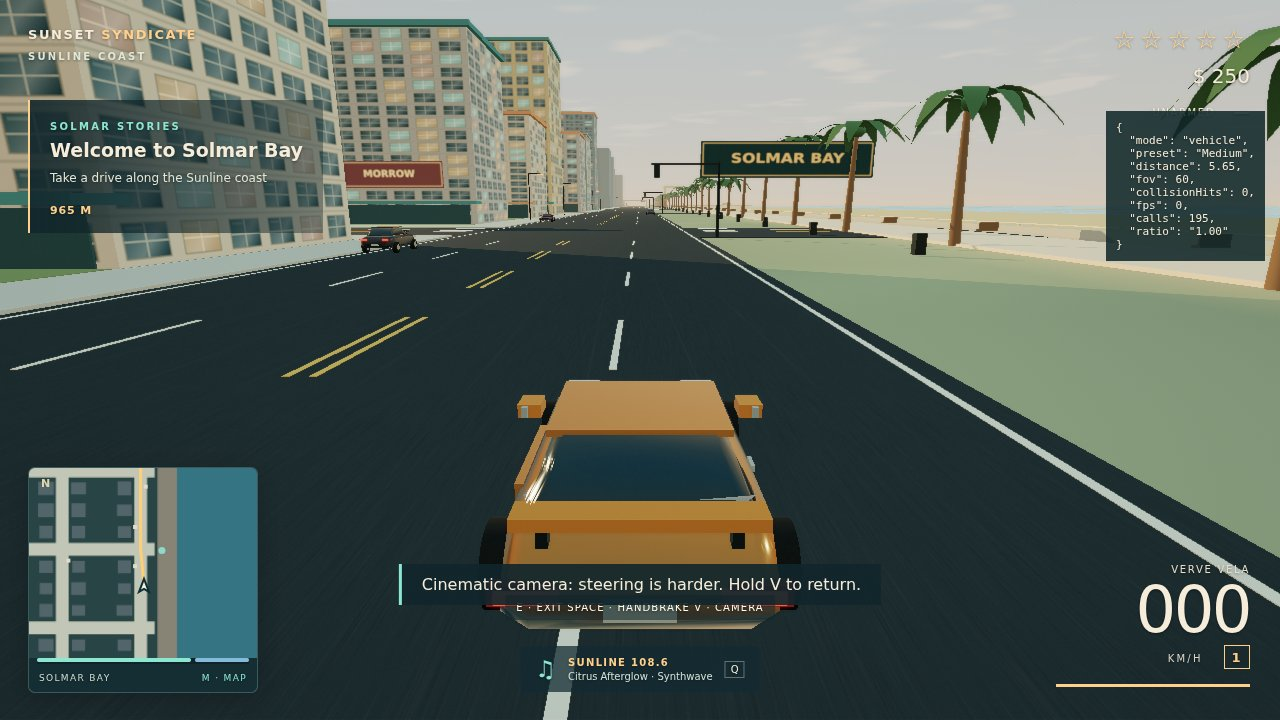
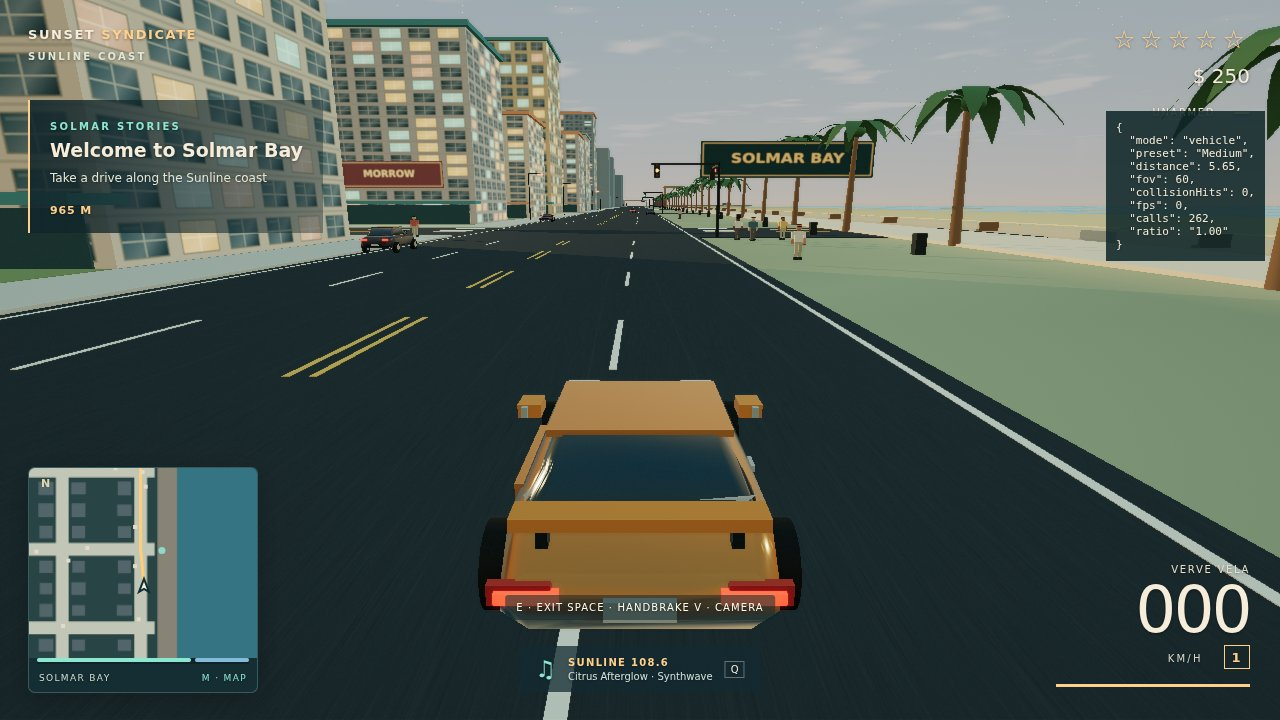
M4: animate seeded traffic, working signals and instanced sidewalk crowds

diff --git a/game/src/entities/pedestrians.js b/game/src/entities/pedestrians.js
@@ -1,0 +1,80 @@
+import { Random } from '../core/rng.js';
+import { damping, dampAngle, distance2D, heading } from '../core/math.js';
+import { createSidewalkGraph } from '../world/sidewalks.js';
+import { CrowdRenderer } from './crowd-renderer.js';
+import { walkSurfaceHeight } from '../world/terrain.js';
+
+export class Pedestrians {
+  constructor(game, signals) {
+    this.game = game; this.signals = signals; this.graph = createSidewalkGraph(); this.rng = new Random(game.world.seed + ':pedestrians'); this.people = [];
+    this.renderer = new CrowdRenderer(game.scene, game.world.materials); this.nextId = 1;
+    const nodes = [...this.graph.nodes.values()];
+    for (let i = 0; i < 56; i++) {
+      const node = i < 18 ? this.graph.nodes.get(`8:${i % 10}:${i % 2 ? 1 : 2}`) : this.rng.pick(nodes);
+      this.spawn(node.x, node.z, 'civilian', node);
+    }
+    for (const [x, z] of [[335, 343], [342, 354], [335, 324], [306.1, 339], [306.1, 362], [354, 308]]) {
+      const person = this.spawn(x, z); person.target = person.node; person.wait = this.rng.range(0.1, 0.6);
+    }
+    game.events.on('gunshot', point => this.frighten(point, 100)); game.events.on('explosion', point => this.frighten(point, 150));
+    game.events.on('carjack', ({ vehicle }) => {
+      this.frighten(vehicle, 35);
+      const ejected = this.spawn(vehicle.x - Math.cos(vehicle.yaw) * 1.7, vehicle.z + Math.sin(vehicle.yaw) * 1.7);
+      if (ejected) { ejected.fear = 7; ejected.threat = vehicle; }
+    });
+  }
+  spawn(x, z, faction = 'civilian', node = null) {
+    if (this.people.length >= this.renderer.capacity) {
+      const available = this.people.find(person => !person.active); if (!available) return null; this.people.splice(this.people.indexOf(available), 1);
+    }
+    const current = node || this.graph.nearest({ x, z });
+    const person = { id: this.nextId++, x, z, y: walkSurfaceHeight(x, z), yaw: this.rng.range(0, 6.28), previous: { x, z },
+      vx: 0, vz: 0, speed: 0, health: faction === 'civilian' ? 60 : 100, armor: faction === 'swat' ? 40 : 0,
+      active: true, faction, armed: faction !== 'civilian', state: 'wander', node: current, target: null, wait: this.rng.range(0, 2), fear: 0,
+      shirt: faction === 'civilian' ? this.rng.pick(['#b6d3ce', '#e4c37b', '#c46e61', '#dee4d2', '#547985', '#c6b3cc']) : '#294955',
+      pants: this.rng.pick(['#3c535d', '#686763', '#b3b496']), skin: this.rng.pick(['#c58e6a', '#855d43', '#d1ac85', '#ad7255']), shotTimer: 0, deadTime: 0 };
+    this.people.push(person); return person;
+  }
+  frighten(point, radius) {
+    for (const npc of this.people) if (npc.health > 0 && npc.faction === 'civilian' && distance2D(npc, point) < radius) {
+      npc.fear = 8; npc.threat = { x: point.x, z: point.z }; npc.state = 'flee';
+      if (this.rng.next() < 0.10) this.game.events.emit('witness-call', { npc, point });
+    }
+  }
+  update(dt) {
+    const g = this.game;
+    for (const npc of this.people) {
+      npc.previous = { x: npc.x, y: npc.y, z: npc.z, yaw: npc.yaw }; if (!npc.active) continue;
+      if (npc.health <= 0) { npc.deadTime += dt; npc.y += (0.12 - npc.y) * damping(8, dt); if (npc.deadTime > 25) npc.active = false; continue; }
+      npc.fear = Math.max(0, npc.fear - dt); npc.wait -= dt;
+      let dx = 0, dz = 0, pace = 1.45;
+      const dangerous = g.fleet.vehicles.find(car => car.active && Math.abs(car.speed) > 5 && distance2D(car, npc) < 7);
+      if (dangerous && npc.faction === 'civilian') { npc.fear = 2; npc.threat = dangerous; }
+      if (npc.fear > 0 && npc.threat) { dx = npc.x - npc.threat.x; dz = npc.z - npc.threat.z; pace = 4.5; npc.state = 'flee'; }
+      else if (npc.faction !== 'civilian' && g.wanted?.stars) { dx = g.player.x - npc.x; dz = g.player.z - npc.z; pace = distance2D(npc, g.player) < 18 ? 0 : 3.8; npc.state = 'chase'; }
+      else if (npc.wait <= 0) {
+        if (!npc.target) { const edge = this.rng.pick(npc.node.edges); npc.target = this.graph.nodes.get(edge.to); }
+        dx = npc.target.x - npc.x; dz = npc.target.z - npc.z;
+        if (Math.hypot(dx, dz) < 0.6) { npc.node = npc.target; npc.target = null; npc.wait = this.rng.range(0.1, 1.2); }
+        else {
+          const a = npc.node.id.split(':'), b = npc.target.id.split(':'), crossing = a[0] === b[0] && a[1] === b[1] && a[2] !== b[2];
+          if (crossing) {
+            const intersection = g.graph.nodes.get(`${a[0]}:${a[1]}`), state = this.signals.state(intersection);
+            const crossingAxis = Math.abs(dx) > Math.abs(dz) ? 'ns' : 'ew';
+            if (state[crossingAxis] !== 'red') pace = 0;
+          }
+        }
+        npc.state = 'wander';
+      }
+      const length = Math.hypot(dx, dz); if (length > 0.01) { dx = dx / length * pace; dz = dz / length * pace; }
+      npc.vx += (dx - npc.vx) * damping(8, dt); npc.vz += (dz - npc.vz) * damping(8, dt);
+      const move = g.world.collision.move(npc, npc.vx * dt, npc.vz * dt, 0.28); npc.speed = Math.hypot(move.dx, move.dz) / dt;
+      if (length > 0.01) npc.yaw = dampAngle(npc.yaw, heading(dx, dz), 8, dt);
+      npc.y = walkSurfaceHeight(npc.x, npc.z);
+      if (dangerous && distance2D(dangerous, npc) < 1.25 && Math.abs(dangerous.speed) > 8) {
+        npc.health = 0; if (dangerous === g.player.vehicle) g.events.emit('crime', { severity: 25, x: npc.x, z: npc.z });
+      }
+    }
+  }
+  render(alpha, time = this.game.time) { this.renderer.render(this.people, this.game.player, time, alpha); }
+}

diff --git a/game/src/main.js b/game/src/main.js
@@ -17,6 +17,9 @@ import { Radio } from './systems/radio.js';
 import { HUD } from './ui/hud.js';
 import { Menus } from './ui/menus.js';
 import { readSave, writeSave } from './core/save.js';
+import { TrafficSignals } from './world/signals.js';
+import { Traffic } from './systems/traffic.js';
+import { Pedestrians } from './entities/pedestrians.js';
 
 const params = new URLSearchParams(location.search), canvas = document.querySelector('#viewport');
 const fatal = document.querySelector('#fatal'), startedAt = performance.now();
@@ -55,14 +58,15 @@ function boot(context) {
     time += dt; input.poll(Boolean(player.vehicle)); rig.handle(input, player, dt);
     if (game.menus) game.menus.settings.camera = rig.preset;
     player.update(dt, input, rig.yaw);
-    fleet.update(dt, input); world.update(dt, time, player); director.update(dt); notifyTimer -= dt;
+    game.traffic.update(dt); fleet.update(dt, input); game.pedestrians.update(dt); world.update(dt, time, player); director.update(dt); notifyTimer -= dt;
     routeTimer -= dt; if (routeTimer <= 0 && game.waypoint) { game.setWaypoint(game.waypoint); routeTimer = 1; }
     audio.update(dt, game); radio.update(game); saveTimer -= dt;
     if (saveTimer <= 0 && game.hasStarted) { game.save(); saveTimer = 12; }
     input.endStep();
   }, (alpha, dt, elapsed) => {
     if (game.menus.isOpen) director.update(dt);
-    fleet.render(alpha, time); player.render(alpha, time); rig.update(dt, player, input, time); world.render(time, camera);
+    const renderTime = Math.max(0, time - loop.step + alpha * loop.step);
+    fleet.render(alpha, renderTime); game.pedestrians.render(alpha, renderTime); game.signals.render(); player.render(alpha, renderTime); rig.update(dt, player, input, renderTime); world.render(renderTime, camera);
     renderer.info.reset(); postfx.render(scene, camera, time, player.speed, world.lighting.night, rig.reduceMotion);
     stats.drawCalls = renderer.info.render.calls; stats.triangles = renderer.info.render.triangles;
     frames++; sampleTime += elapsed; if (sampleTime >= 1) { stats.fps = frames / sampleTime; frames = sampleTime = 0; }
@@ -74,7 +78,7 @@ function boot(context) {
   window.addEventListener('resize', resize); resize();
   canvas.addEventListener('webglcontextlost', event => { event.preventDefault(); loop.paused = true; fatal.hidden = false; fatal.textContent = 'Graphics context lost. Waiting for restoration…'; });
   canvas.addEventListener('webglcontextrestored', () => { fatal.hidden = true; loop.paused = false; resize(); });
-  const game = window.__game = { ready: false, version: 'M3', params, scene, renderer, camera, world, player, input, rig, quality, postfx, events, stats, loop, fleet, environment,
+  const game = window.__game = { ready: false, version: 'M4', params, scene, renderer, camera, world, player, input, rig, quality, postfx, events, stats, loop, fleet, environment,
     graph, director, audio, radio, hasStarted: false, waypoint: null, route: [],
     notify, get time() { return time; },
     setWaypoint(point) { this.waypoint = point; this.route = graph.path(player, point).concat(point); },
@@ -101,12 +105,13 @@ function boot(context) {
       input.injected = null; this.hud.render(); return { clipped, state: this.state() };
     },
     renderFrame() {
-      fleet.render(1, time); player.render(1, time); rig.update(1 / 60, player, input, time); world.render(time, camera);
+      fleet.render(1, time); this.pedestrians.render(1); this.signals.render(); player.render(1, time); rig.update(1 / 60, player, input, time); world.render(time, camera);
       renderer.info.reset(); postfx.render(scene, camera, time, player.speed, world.lighting.night, rig.reduceMotion);
       stats.drawCalls = renderer.info.render.calls; stats.triangles = renderer.info.render.triangles;
       this.hud.render(); if (notifyTimer < 0) document.querySelector('#notification').classList.remove('visible');
     },
   };
+  game.signals = new TrafficSignals(scene, graph, world.materials); game.traffic = new Traffic(game, game.signals); game.pedestrians = new Pedestrians(game, game.signals);
   game.setWaypoint({ x: 320, z: -610 });
   game.hud = new HUD(ui, game, params.has('debug')); game.menus = new Menus(game, game.hud);
   loop.beforeFrame = dt => { input.poll(Boolean(player.vehicle)); game.menus.handle(input, dt); if (game.menus.isOpen) input.endStep(); };

diff --git a/game/src/systems/traffic.js b/game/src/systems/traffic.js
@@ -1,0 +1,60 @@
+import { Random } from '../core/rng.js';
+import { distance2D, heading, forward } from '../core/math.js';
+import { VEHICLE_TYPES, PAINT_COLORS } from '../data/vehicles.js';
+import { AIScheduler, steeringToward } from './ai.js';
+
+export class Traffic {
+  constructor(game, signals) {
+    this.game = game; this.signals = signals; this.rng = new Random(game.world.seed + ':traffic');
+    this.scheduler = new AIScheduler(0.05, 8); this.cars = []; this.paused = false;
+    const nodes = [...game.graph.nodes.values()], civilian = Object.keys(VEHICLE_TYPES).filter(type => type !== 'police');
+    for (let i = 0; i < 28; i++) {
+      const node = i < 13 ? game.graph.nodes.get(`8:${i % 10}`) : this.rng.pick(nodes);
+      const edge = i < 13 ? node.edges.find(edge => edge.to.startsWith('8:')) || node.edges[0] : this.rng.pick(node.edges);
+      const next = game.graph.nodes.get(edge.to), t = this.rng.range(0.15, 0.82), dx = next.x - node.x, dz = next.z - node.z, length = Math.hypot(dx, dz);
+      const x = node.x + dx * t - dz / length * 3.5, z = node.z + dz * t + dx / length * 3.5;
+      const type = this.rng.pick(civilian), car = game.fleet.spawn(type, x, z, heading(dx, dz), type === 'taxi' ? '#efc358' : this.rng.pick(PAINT_COLORS));
+      car.driver = 'civilian'; car.ai = { kind: 'traffic', from: node, to: next, last: null, targetSpeed: this.rng.range(9, 15), panic: 0, stuck: 0 };
+      this.cars.push(car);
+    }
+    const showcase = [
+      { x: 323.5, z: 334, from: '8:8', to: '8:7', yaw: 0 },
+      { x: 316.5, z: 319, from: '8:7', to: '8:8', yaw: Math.PI },
+      { x: 323.5, z: 300, from: '8:8', to: '8:7', yaw: 0 },
+    ];
+    showcase.forEach((pose, i) => { const car = this.cars[i]; Object.assign(car, { x: pose.x, z: pose.z, yaw: pose.yaw }); car.snapshot(); car.ai.from = game.graph.nodes.get(pose.from); car.ai.to = game.graph.nodes.get(pose.to); });
+    game.events.on('gunshot', point => { for (const car of this.cars) if (car.ai && distance2D(car, point) < 120) car.ai.panic = 7; });
+    game.events.on('explosion', point => { for (const car of this.cars) if (car.ai && distance2D(car, point) < 180) car.ai.panic = 10; });
+  }
+  think(car) {
+    if (!car.active || !car.ai || car.ai.kind !== 'traffic') return;
+    const g = this.game, ai = car.ai, dir = { x: ai.to.x - ai.from.x, z: ai.to.z - ai.from.z }, length = Math.hypot(dir.x, dir.z);
+    const destination = { x: ai.to.x - dir.z / length * 3.5, z: ai.to.z + dir.x / length * 3.5 };
+    if (distance2D(car, destination) < 8) {
+      const choices = ai.to.edges.filter(edge => edge.to !== ai.from.id); const edge = this.rng.pick(choices.length ? choices : ai.to.edges);
+      ai.last = ai.from; ai.from = ai.to; ai.to = g.graph.nodes.get(edge.to); return;
+    }
+    const toSignal = distance2D(car, ai.to), red = toSignal < 28 && !this.signals.green(ai.to, dir) && ai.panic <= 0;
+    let speed = ai.panic > 0 ? 23 : ai.targetSpeed;
+    if (red) speed = toSignal > 16 ? Math.min(speed, (toSignal - 15) * 0.55) : 0;
+    const f = forward(car.yaw), bumper = { x: car.x + f.x * car.config.length / 2, y: car.y + 0.65, z: car.z + f.z * car.config.length / 2 };
+    const rayLength = 5 + Math.abs(car.speed) * 0.65;
+    const ray = g.world.collision.sweep(bumper, { x: bumper.x + f.x * rayLength, y: bumper.y, z: bumper.z + f.z * rayLength }, car.config.width * 0.4);
+    if (ray.fraction < 1) speed = Math.min(speed, rayLength * ray.fraction * 0.5);
+    for (const other of g.fleet.vehicles) {
+      if (other === car || !other.active) continue;
+      const dx = other.x - car.x, dz = other.z - car.z, along = dx * f.x + dz * f.z, side = Math.abs(dx * -f.z + dz * f.x);
+      if (along > 0 && along < rayLength + 4 && side < (car.config.width + other.config.width) / 2 + 0.25) speed = Math.min(speed, Math.max(0, (along - 5) * 0.7));
+    }
+    if (!g.player.vehicle && distance2D(car, g.player) < 8) speed = 0;
+    const controls = steeringToward(car, destination, speed);
+    if (speed < 0.2) { controls.throttle = 0; controls.brake = 1; }
+    car.controls = controls;
+  }
+  update(dt) {
+    if (this.paused) return;
+    this.signals.clock = this.game.time;
+    for (const car of this.cars) if (car.ai) { car.ai.panic = Math.max(0, car.ai.panic - dt); }
+    this.scheduler.update(dt, this.cars, car => this.think(car));
+  }
+}

diff --git a/game/src/entities/crowd-renderer.js b/game/src/entities/crowd-renderer.js
@@ -1,0 +1,47 @@
+import * as THREE from '../../vendor/three.min.js';
+import { distance2D, angleDelta } from '../core/math.js';
+
+// All animated crowd limbs share one instanced box mesh, heads another.
+export class CrowdRenderer {
+  constructor(scene, materials, capacity = 96) {
+    this.capacity = capacity; this.boxesPerPerson = 14; this.dummy = new THREE.Object3D(); this.root = new THREE.Object3D();
+    const material = materials.surface('#fff', 0.82);
+    this.boxes = new THREE.InstancedMesh(new THREE.BoxGeometry(1, 1, 1), material, capacity * this.boxesPerPerson);
+    this.heads = new THREE.InstancedMesh(new THREE.SphereGeometry(1, 10, 8), material, capacity);
+    this.boxes.castShadow = this.heads.castShadow = this.boxes.receiveShadow = this.heads.receiveShadow = true; scene.add(this.boxes, this.heads);
+    this.matrix = new THREE.Matrix4(); this.hidden = new THREE.Matrix4().makeScale(0, 0, 0);
+    for (let i = 0; i < capacity * this.boxesPerPerson; i++) { this.boxes.setMatrixAt(i, this.hidden); this.boxes.setColorAt(i, new THREE.Color('#fff')); }
+    for (let i = 0; i < capacity; i++) { this.heads.setMatrixAt(i, this.hidden); this.heads.setColorAt(i, new THREE.Color('#fff')); }
+  }
+  render(people, player, time, alpha) {
+    for (let i = 0; i < this.capacity; i++) {
+      const npc = people[i], visible = npc && npc.active && distance2D(npc, player) < 145;
+      if (!visible) { for (let j = 0; j < this.boxesPerPerson; j++) this.boxes.setMatrixAt(i * this.boxesPerPerson + j, this.hidden); this.heads.setMatrixAt(i, this.hidden); continue; }
+      this.root.position.set(npc.previous.x + (npc.x - npc.previous.x) * alpha, (npc.previous.y ?? npc.y) + (npc.y - (npc.previous.y ?? npc.y)) * alpha, npc.previous.z + (npc.z - npc.previous.z) * alpha);
+      const yaw = (npc.previous.yaw ?? npc.yaw) + angleDelta(npc.previous.yaw ?? npc.yaw, npc.yaw) * alpha;
+      this.root.rotation.set(npc.health <= 0 ? -Math.PI / 2 : 0, yaw, npc.health <= 0 ? 0.15 : 0); this.root.updateMatrix();
+      let slot = 0;
+      const part = (x, y, z, sx, sy, sz, rx, color) => {
+        this.dummy.position.set(x, y, z); this.dummy.scale.set(sx, sy, sz); this.dummy.rotation.set(rx, 0, 0); this.dummy.updateMatrix();
+        this.matrix.multiplyMatrices(this.root.matrix, this.dummy.matrix); this.boxes.setMatrixAt(i * this.boxesPerPerson + slot++, this.matrix);
+        this.boxes.setColorAt(i * this.boxesPerPerson + slot - 1, new THREE.Color(color));
+      };
+      const moving = npc.speed > 0.15 && npc.health > 0, phase = time * (npc.speed > 3 ? 11 : 6) + i, stride = moving ? Math.min(npc.speed / 5, 0.65) : 0;
+      part(0, 1.21, 0, 0.43, 0.56, 0.26, 0, npc.shirt); part(0, 0.88, 0, 0.36, 0.16, 0.25, 0, npc.pants);
+      part(0, 1.80, 0.015, 0.27, 0.08, 0.25, 0, '#302b26'); part(0, 1.69, -0.14, 0.24, 0.035, 0.02, 0, '#25343b');
+      for (const side of [-1, 1]) {
+        const step = Math.sin(phase + (side < 0 ? Math.PI : 0)) * stride, arm = npc.armed ? 1.35 : -step * 0.8;
+        part(side * 0.30, 1.43 - 0.17 * Math.cos(arm), -0.17 * Math.sin(arm), 0.14, 0.34, 0.16, arm, npc.shirt);
+        part(side * 0.30, 1.43 - 0.34 * Math.cos(arm) - 0.15 * Math.cos(arm + 0.15), -0.34 * Math.sin(arm) - 0.15 * Math.sin(arm + 0.15), 0.12, 0.30, 0.13, arm + 0.15, npc.skin);
+        part(side * 0.12, 0.88 - 0.21 * Math.cos(step), -0.21 * Math.sin(step), 0.18, 0.42, 0.20, step, npc.pants);
+        const knee = step + Math.min(0, -step) * 0.6;
+        part(side * 0.12, 0.88 - 0.42 * Math.cos(step) - 0.19 * Math.cos(knee), -0.42 * Math.sin(step) - 0.19 * Math.sin(knee), 0.16, 0.38, 0.18, knee, npc.pants);
+        part(side * 0.12, 0.08, -0.045, 0.19, 0.13, 0.29, 0, '#263439');
+      }
+      this.dummy.position.set(0, 1.65, 0); this.dummy.scale.set(0.15, 0.195, 0.15); this.dummy.rotation.set(0, 0, 0); this.dummy.updateMatrix();
+      this.matrix.multiplyMatrices(this.root.matrix, this.dummy.matrix); this.heads.setMatrixAt(i, this.matrix); this.heads.setColorAt(i, new THREE.Color(npc.skin));
+    }
+    this.boxes.instanceMatrix.needsUpdate = this.heads.instanceMatrix.needsUpdate = this.boxes.instanceColor.needsUpdate = this.heads.instanceColor.needsUpdate = true;
+    this.boxes.computeBoundingSphere(); this.heads.computeBoundingSphere();
+  }
+}

diff --git a/game/src/world/signals.js b/game/src/world/signals.js
@@ -1,0 +1,39 @@
+import * as THREE from '../../vendor/three.min.js';
+import { Instances } from '../render/geometry.js';
+
+export function signalState(time, offset = 0) {
+  const phase = ((time + offset) % 42 + 42) % 42;
+  return { ns: phase < 17 ? 'green' : phase < 20 ? 'yellow' : 'red',
+    ew: phase >= 21 && phase < 38 ? 'green' : phase >= 38 && phase < 41 ? 'yellow' : 'red' };
+}
+export class TrafficSignals {
+  constructor(scene, graph, materials) {
+    this.graph = graph; this.clock = 0; this.nodes = [...graph.nodes.values()]; this.dummy = new THREE.Object3D();
+    const material = new THREE.MeshStandardMaterial({ color: '#fff', emissive: '#fff', emissiveIntensity: 1.6, roughness: 0.3 });
+    material.onBeforeCompile = shader => { shader.fragmentShader = shader.fragmentShader.replace('#include <emissivemap_fragment>', '#include <emissivemap_fragment>\n totalEmissiveRadiance *= vColor;'); };
+    material.customProgramCacheKey = () => 'solmar-signal';
+    this.lights = new THREE.InstancedMesh(new THREE.SphereGeometry(0.14, 8, 6), material, this.nodes.length * 2); scene.add(this.lights);
+    const batch = new Instances(), cube = new THREE.BoxGeometry(1, 1, 1);
+    for (const node of this.nodes) {
+      batch.add('signal-ew-arm', cube, materials.metal, [node.x + 13, 6.4, node.z + 10], [0.15, 0.15, 6]);
+      batch.add('signal-ew-body', cube, materials.metal, [node.x + 13, 5.85, node.z + 7.5], [0.45, 1.2, 0.5]);
+    }
+    batch.build(scene, false); this.render();
+  }
+  state(node, time = this.clock) {
+    const [i, j] = node.id.split(':').map(Number); return signalState(time, i * 3 + j * 7);
+  }
+  green(node, direction, time = this.clock) { return this.state(node, time)[Math.abs(direction.x) > Math.abs(direction.z) ? 'ew' : 'ns'] === 'green'; }
+  render() {
+    const colors = { green: '#45e58b', yellow: '#ffc461', red: '#ff5a47' }, offsets = { green: -0.32, yellow: 0, red: 0.32 };
+    this.nodes.forEach((node, index) => {
+      const state = this.state(node);
+      ['ns', 'ew'].forEach((axis, side) => {
+        this.dummy.position.set(node.x + (axis === 'ns' ? 7.5 : 13.27), 5.85 + offsets[state[axis]], node.z + (axis === 'ns' ? 13.27 : 7.5));
+        this.dummy.scale.set(1, 1, 1); this.dummy.updateMatrix(); this.lights.setMatrixAt(index * 2 + side, this.dummy.matrix);
+        this.lights.setColorAt(index * 2 + side, new THREE.Color(colors[state[axis]]));
+      });
+    });
+    this.lights.instanceMatrix.needsUpdate = true; this.lights.instanceColor.needsUpdate = true; this.lights.computeBoundingSphere();
+  }
+}

diff --git a/game/src/entities/humanoid.js b/game/src/entities/humanoid.js
@@ -1,7 +1,7 @@
 import * as THREE from '../../vendor/three.min.js';
 import { box } from '../render/geometry.js';
 import { clamp, dampAngle, damping, heading, interpolateTransform } from '../core/math.js';
-import { groundHeight } from '../world/terrain.js';
+import { walkSurfaceHeight } from '../world/terrain.js';
 import { CITY } from '../data/city.js';
 
 // Procedural articulated skeleton: pivots at hips, shoulders, elbows and knees.
@@ -62,7 +62,7 @@ export class Player {
     const moved = this.world.collision.move(this, this.velocity.x * dt, this.velocity.z * dt); this.speed = Math.hypot(moved.dx, moved.dz) / dt;
     if (this.aiming) this.yaw = dampAngle(this.yaw, cameraYaw, 18, dt); else if (magnitude > 0.05) this.yaw = dampAngle(this.yaw, heading(dx, dz), 12, dt);
     if (input.take('Space') && this.grounded) { this.vy = 6.3; this.grounded = false; }
-    this.vy -= 18 * dt; this.y += this.vy * dt; const floor = groundHeight(this.x, this.z) + 0.18;
+    this.vy -= 18 * dt; this.y += this.vy * dt; const floor = walkSurfaceHeight(this.x, this.z) - 0.055;
     if (this.y <= floor) { this.y = floor; this.vy = 0; this.grounded = true; }
     this.x = clamp(this.x, -768, 449); this.z = clamp(this.z, -733, 749);
     this.state = !this.grounded ? this.vy > 0 ? 'jump' : 'fall' : this.crouched ? 'crouch' : this.aiming ? 'aim' : this.speed > 6 ? 'sprint' : this.speed > 0.3 ? 'walk' : 'idle';

diff --git a/game/src/entities/vehicles.js b/game/src/entities/vehicles.js
@@ -96,6 +96,17 @@ export class VehicleFleet {
     for (let i = 0; i < nearby.length; i++) for (let j = i + 1; j < nearby.length; j++)
       if (distance2D(nearby[i], nearby[j]) < 7) resolveVehiclePair(nearby[i], nearby[j]);
     this.transition(dt);
+    if (!player.vehicle && !player.transition) {
+      for (const v of nearby) {
+        const dx = player.x - v.x, dz = player.z - v.z, cos = Math.cos(v.yaw), sin = Math.sin(v.yaw);
+        const x = dx * cos - dz * sin, z = -dx * sin - dz * cos;
+        const px = v.config.width / 2 + 0.36 - Math.abs(x), pz = v.config.length / 2 + 0.36 - Math.abs(z);
+        if (px > 0 && pz > 0 && Math.abs(player.y - v.y) < 1.2) {
+          if (px < pz) { const sign = x < 0 ? -1 : 1; player.x += cos * px * sign; player.z -= sin * px * sign; }
+          else { const sign = z < 0 ? -1 : 1; player.x -= sin * pz * sign; player.z -= cos * pz * sign; }
+        }
+      }
+    }
     if (player.vehicle && !player.transition) {
       const v = player.vehicle; player.x = v.x; player.z = v.z; player.y = v.y + 0.2; player.yaw = v.yaw; player.speed = Math.abs(v.speed); player.state = 'drive';
     }

diff --git a/game/src/systems/ai.js b/game/src/systems/ai.js
@@ -1,0 +1,15 @@
+import { clamp, angleDelta, heading } from '../core/math.js';
+
+export class AIScheduler {
+  constructor(interval = 0.06, budget = 6) { this.interval = interval; this.budget = budget; this.elapsed = 0; this.cursor = 0; }
+  update(dt, items, callback) {
+    this.elapsed += dt; if (this.elapsed < this.interval || !items.length) return; this.elapsed %= this.interval;
+    for (let i = 0; i < Math.min(this.budget, items.length); i++) { const item = items[this.cursor++ % items.length]; callback(item); }
+  }
+}
+export function steeringToward(vehicle, point, targetSpeed) {
+  const desired = heading(point.x - vehicle.x, point.z - vehicle.z), error = angleDelta(vehicle.yaw, desired);
+  const desiredSpeed = targetSpeed * clamp(1 - Math.abs(error) * 0.38, 0.35, 1);
+  return { steer: clamp(-error * 2.3, -1, 1), throttle: vehicle.speed < desiredSpeed ? 0.85 : 0,
+    brake: vehicle.speed > desiredSpeed + 1.5 ? 0.3 : 0, handbrake: false };
+}

diff --git a/game/src/world/terrain.js b/game/src/world/terrain.js
@@ -4,7 +4,14 @@ import { clamp } from '../core/math.js';
 
 export function groundHeight(x, z) {
   if (x > CITY.shore) return -0.75;
+  if (CITY.streetsX.some(street => Math.abs(street - x) < 17) || CITY.streetsZ.some(street => Math.abs(street - z) < 17)) return 0;
   const hill = Math.exp(-((x + 748) ** 2 / 6400 + (z - 450) ** 2 / 32000)) * 22; return Math.max(0, hill - 0.5);
+}
+export function walkSurfaceHeight(x, z) {
+  if (x >= CITY.shore && x < 470) return -0.22;
+  const onRoad = CITY.streetsX.some(street => Math.abs(street - x) < CITY.roadWidth / 2)
+    || (x < 345 && CITY.streetsZ.some(street => Math.abs(street - z) < CITY.roadWidth / 2));
+  return groundHeight(x, z) + (onRoad ? 0.05 : 0.18);
 }
 export function createTerrain(scene, materials) {
   const geometry = new THREE.PlaneGeometry(1570, 1570, 96, 96); geometry.rotateX(-Math.PI / 2);

diff --git a/game/src/world/sidewalks.js b/game/src/world/sidewalks.js
@@ -1,0 +1,13 @@
+import { CITY } from '../data/city.js';
+import { WaypointGraph } from './graph.js';
+
+export function createSidewalkGraph() {
+  const graph = new WaypointGraph(), signs = [[-1, -1], [1, -1], [1, 1], [-1, 1]];
+  CITY.streetsX.forEach((x, i) => CITY.streetsZ.forEach((z, j) => signs.forEach(([sx, sz], q) => graph.add(`${i}:${j}:${q}`, x + sx * 13.9, z + sz * 13.9))));
+  CITY.streetsX.forEach((_, i) => CITY.streetsZ.forEach((_, j) => {
+    for (let q = 0; q < 4; q++) graph.connect(`${i}:${j}:${q}`, `${i}:${j}:${(q + 1) % 4}`);
+    if (j + 1 < CITY.streetsZ.length) { graph.connect(`${i}:${j}:2`, `${i}:${j + 1}:1`); graph.connect(`${i}:${j}:3`, `${i}:${j + 1}:0`); }
+    if (i + 1 < CITY.streetsX.length) { graph.connect(`${i}:${j}:1`, `${i + 1}:${j}:0`); graph.connect(`${i}:${j}:2`, `${i + 1}:${j}:3`); }
+  }));
+  return graph;
+}

diff --git a/game/src/world/buildings.js b/game/src/world/buildings.js
@@ -14,7 +14,7 @@ export function generateBuildings(seed) {
     const rows = downtown ? 2 : 3, columns = 2;
     for (let i = 0; i < columns; i++) for (let j = 0; j < rows; j++) {
       const x = xa + 29 + i * (xb - xa - 58), z = za + 31 + j * ((zb - za - 62) / Math.max(1, rows - 1));
-      const width = rng.range(22, downtown ? 34 : 29), depth = rng.range(19, rows === 3 ? 25 : 35);
+      const width = rng.range(22, 28), depth = rng.range(19, rows === 3 ? 25 : 28);
       const height = industrial ? rng.range(7, 17) : downtown ? rng.range(30, 105) : coastal ? rng.range(15, 44) : rng.range(8, 24);
       records.push({ x, z, width, depth, height, style: rng.int(0, 5), downtown, industrial, coastal,
         sign: rng.pick(BRANDS), accent: rng.pick(['#e6a97d', '#5fa1a2', '#e7d6b4', '#acbcbc']) });

diff --git a/README.md b/README.md
@@ -11,6 +11,10 @@ M3 adds the HUD, rotating GPS minimap, clickable full map, main/pause/settings
 menus, local autosave, a spline opening into the chase camera, cinematic vehicle
 shots, gesture-started engine/footstep/wind/horn audio and three original
 generative radio stations.
+M4 adds 28 moving lane-following traffic cars, synchronized green/yellow/red
+intersection lights, a connected sidewalk/crossing graph, 62 seeded walkers,
+car/gunshot reactions, witness-call events, ejected carjack drivers and an
+instanced articulated crowd. Sidewalk clearance and foot grounding were fixed.
 
 ## Run locally
 
@@ -91,6 +95,12 @@ not available for subjective/hardware verification.
 LP_NUM_THREADS=1 LIBGL_ALWAYS_SOFTWARE=1 SOLMAR_TEST_GPU=mesa xvfb-run -a node scripts/audio-check.mjs
 LP_NUM_THREADS=1 LIBGL_ALWAYS_SOFTWARE=1 SOLMAR_TEST_GPU=mesa xvfb-run -a node scripts/ui-check.mjs
 ```
+
+M4: 24 unit tests passed. In a browser, all 28 traffic vehicles and 53 of 62
+pedestrians moved during a ten-second fixed simulation; camera/drive/settings
+regressions also passed. The genuine High render used 262 draw calls with
+zero console errors, warnings and external requests. Traffic AI is time-sliced;
+crowd geometry is instanced in two draws, with interpolated poses.
 
 ## License
 
